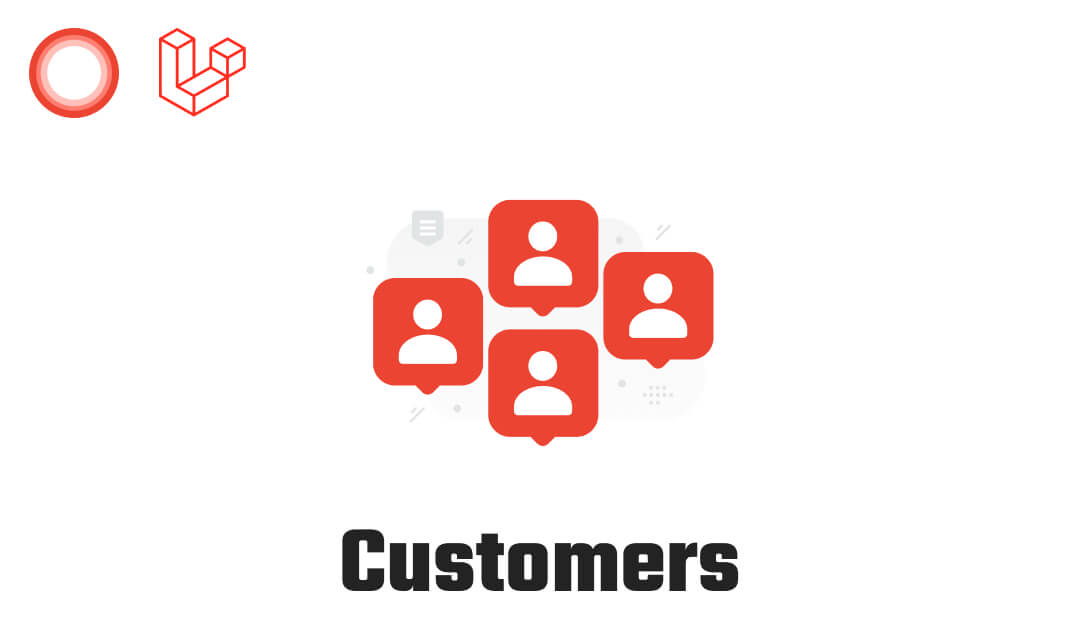
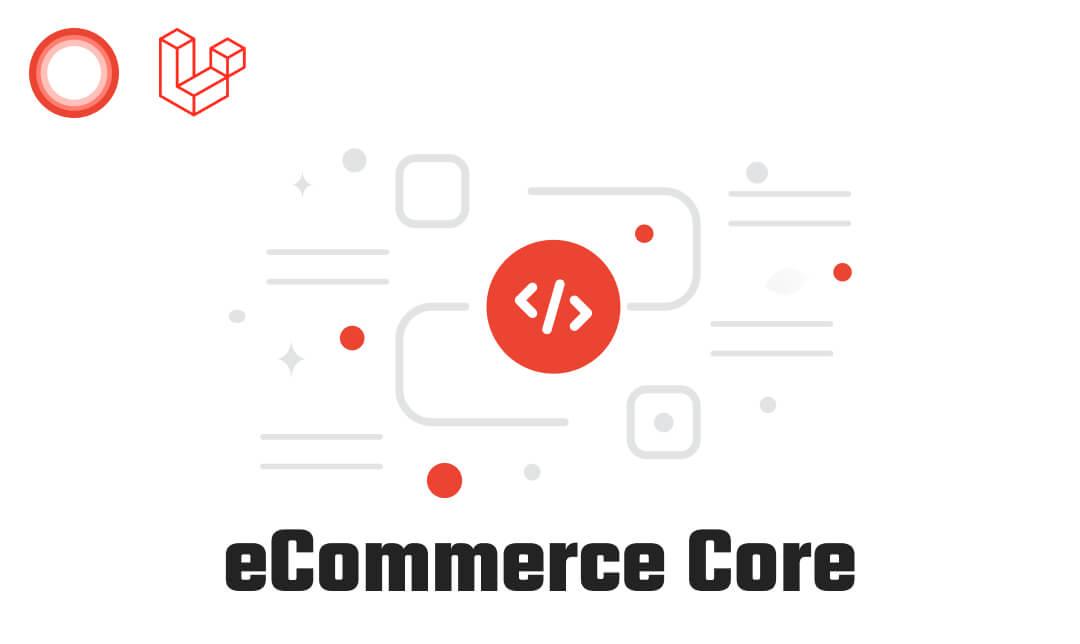
Update cover and README file

diff --git a/README.md b/README.md
@@ -1,12 +1,12 @@
 <p align="center"><a href="#" target="_blank"><img src="./cover.jpg"/></a></p>
 
-# Laravel Customers Module
+# Laravel eCommerce Core
 
-Manage your customers in eCommerce.
+eCommerce Core to help you build your eCommerce based on laravel.
 
 ## Documentation
 
-You can find the detailed documentation here in [Customers Module Documentation](https://outmart.github.io/packages/laravel/customers/).
+You can find the detailed documentation here in [eCommerce Core Documentation](https://outmart.github.io/packages/laravel/customers/).
 
 ## Contributing
 
